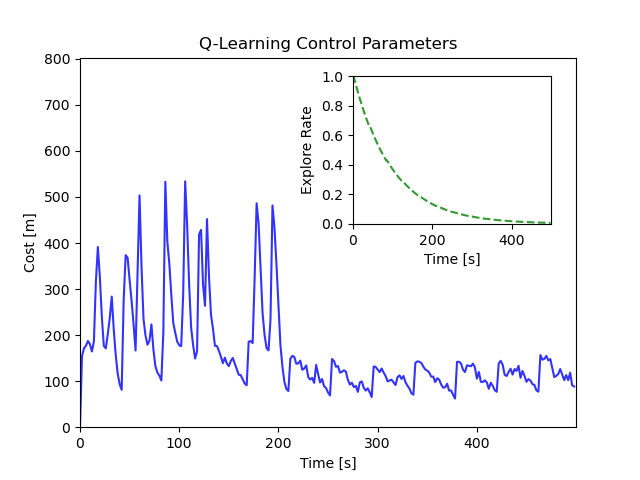
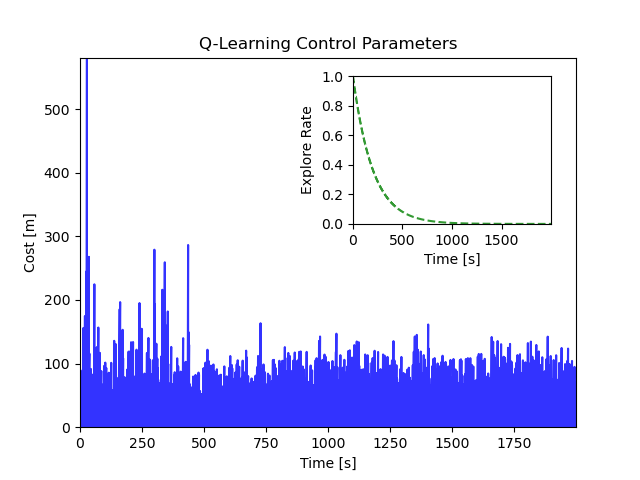
fixed sliding trial time error

diff --git a/main.py b/main.py
@@ -6,11 +6,7 @@
 
 ## Dev notes:
 
-- implement double integrator
-- implement PD control 
-- implement basic learning learning 
-- build a deep Q network eventually
-- see where it goes
+- not ready yet
 
 Created on Sat May 15 19:26:29 2021
 
@@ -36,14 +32,14 @@ from mpl_toolkits.axes_grid.inset_locator import (inset_axes, InsetPosition, mar
 # --------------------
  
 Ti = 0.0        # initial time
-Tf = 500         # final time 
+Tf = 2000         # final time 
 Ts = 0.1        # sample time
-Tz = 0.01      # integration step size
+Tz = 0.005      # integration step size
 
 state   = np.array([1.9, 0.1, 1, 0.2, 0.3, 0.4])   # format: [x, xdot, y, ydot, z, zdot]
 inputs  = np.array([0.21, 0.15, 0.1])              # format: [xddot, yddot, zddot]
 #target  = np.array([0.0,0.0,1.0])                  # format: [xr, yr, zr]
-target  = 9*np.array([random.uniform(-1, 1),random.uniform(-1, 1),random.uniform(-1, 1)]) 
+target  = 10*np.array([random.uniform(-1, 1),random.uniform(-1, 1),random.uniform(-1, 1)]) 
 
 outputs = np.array([state[0],state[2],state[4]])   # format: [x, y, z]
 error   = outputs - target
@@ -71,7 +67,7 @@ nParams     = 2    # number of parameters to tune
 nOptions    = 10   # number of options to selection from (ranges between 0 and nOptions)
 scale       = 1    # scale the value of the options (i.e. scale*[0:nOptions])
 Tl          = 2    # length of trial [s]
-trial_counter = 0  # initialize counter 
+trial_counter = Ts  # initialize counter 
 trial_cost    = 0  # initialze cost 
 explore_rate  = 1  # how often to explore, 0 to 1 (start high, decrease)
 Q = QL.init(nParams,nOptions)
@@ -83,7 +79,9 @@ kd_i = QL.select(Q,1,nOptions,explore_rate)
 kd = scale*kd_i
 explore_rates_all       = np.zeros([nSteps, 1])  # to store explore rates
 explore_rates_all[0,:]  = explore_rate
-
+target_rand0 = 5*random.uniform(-1, 1)
+target_rand1 = 5*random.uniform(-1, 1)
+target_rand2 = 5*random.uniform(-1, 1)
 
 #%% Define the agent dynamics
 # ---------------------------
@@ -122,28 +120,28 @@ while round(t,3) < Tf:
     i += 1
 
     # wander the target 
-    target = 9*np.array([1*np.sin(i*Ts*3),1*np.cos(0.5*i*Ts*3),1*np.sin(i*Ts*2)])
+    target += 0.5*np.array([1*np.sin(i*Ts*target_rand0),1*np.cos(0.5*i*Ts*target_rand1),1*np.sin(i*Ts*target_rand2)])
 
     # still working on this
-    if round(trial_counter,3) < Tl:
+    if round(trial_counter,5) < Tl:
     
         # accumulate the cost
         trial_cost += LA.norm(target-state[0:6:2])
-    
+          
         # increment the counter 
         trial_counter += Ts
         
     else: 
         
-        # normalize the cost
+        # normalize the cost (for computing reward)
         trial_cost = trial_cost/Tl
-        
+      
         #compute the reward
-        reward = np.maximum(1/trial_cost,0.00001)
+        reward = 1/np.maximum(trial_cost,0.00001)
         
         #update the Q table
-        Q = QL.update(Q,0,kp_i,0,reward)
-        Q = QL.update(Q,1,kd_i,1,reward)
+        Q = QL.update(Q,0,kp_i,1,reward)
+        Q = QL.update(Q,1,kd_i,0,reward)
         
         # select new parameter from Q table 
         kp_i = QL.select(Q,0,nOptions,explore_rate)
@@ -153,13 +151,17 @@ while round(t,3) < Tf:
         #print(kp,kd,1/trial_cost)
         
         # reset
-        trial_counter = 0
+        trial_counter = Ts
+        trial_cost = 0
         
         # select new target (randomly)
-        target  = 10*np.array([random.uniform(-1, 1),random.uniform(-1, 1),random.uniform(-1, 1)]) 
+        target = 10*np.array([random.uniform(-1, 1),random.uniform(-1, 1),random.uniform(-1, 1)]) 
+        target_rand0 = 5*random.uniform(-1, 1)
+        target_rand1 = 5*random.uniform(-1, 1)
+        target_rand2 = 5*random.uniform(-1, 1)
         
         # reduce the explore rate
-        explore_rate = 0.99**t
+        explore_rate = 0.995**t
         #print(explore_rate)
         
 
@@ -175,6 +177,10 @@ while round(t,3) < Tf:
 
 # %% Animate
 # ---------- 
+
+for k in range(0,nParams):
+    print('Best parameter ', k, ' is: ', np.argmax(Q[k,:]),' with ', np.max(Q[k,:]))
+
 
 #%% trajectory
 
@@ -264,7 +270,7 @@ ani = animation.FuncAnimation(fig, update, np.arange(1, len(states_all)),interva
 #slow
 #ani2 = animation.FuncAnimation(fig, update, np.linspace(1, len(states_all), num=500, dtype=int),interval=15, blit=False)
 
-ani.save('animation.gif', writer=writer, progress_callback = lambda i, n: print(f'Saving frame {i} of {n}'))
+#ani.save('animation.gif', writer=writer, progress_callback = lambda i, n: print(f'Saving frame {i} of {n}'))
 #ani.save('animation.gif', writer=writer)
 
 
@@ -275,7 +281,8 @@ ani.save('animation.gif', writer=writer, progress_callback = lambda i, n: print(
 # plot costs
 fig2, ax2 = plt.subplots()
 plt.title('Q-Learning Control Parameters')
-ax2.plot(t_all[1::int(Tl/Ts)],costs_all[1::int(Tl/Ts),0],'-', c='b', mew=2, alpha=0.8,label='Cost')
+#ax2.plot(t_all[1::int(Tl/Ts)],costs_all[1::int(Tl/Ts),0],'-', c='b', mew=2, alpha=0.8,label='Cost')
+ax2.plot(t_all[1::],costs_all[1::,0],'-', c='b', mew=2, alpha=0.8,label='Cost')
 ax2.set_xlabel('Time [s]')
 ax2.set_ylabel('Cost [m]')
 #ax2.legend(loc=0)
@@ -290,7 +297,8 @@ ax3.set_axes_locator(ip)
 # cool, make lines to point (save this for later)
 #mark_inset(ax2, ax3, loc1=2, loc2=4, fc="none", ec='0.5')
 # data
-ax3.plot(t_all[1::int(Tl/Ts)],explore_rates_all[1::int(Tl/Ts),0],'--', c='g', mew=2, alpha=0.8,label='Explore Rate')
+#ax3.plot(t_all[1::int(Tl/Ts)],explore_rates_all[1::int(Tl/Ts),0],'--', c='g', mew=2, alpha=0.8,label='Explore Rate')
+ax3.plot(t_all[1::],explore_rates_all[1::,0],'--', c='g', mew=2, alpha=0.8,label='Explore Rate')
 ax3.set_xlabel('Time [s]')
 ax3.set_ylabel('Explore Rate')
 ax3.set_xlim(0,max(t_all))

diff --git a/qLearnLib.py b/qLearnLib.py
@@ -15,8 +15,8 @@ import random
 #nState = 2          # number of states
 #nAction = 2         # number of actions
 #explore_rate = 0.8  # how often to explore, 0 to 1
-learn_rate = 0.7    # how much to accept new observations, alpha/lambda, 0.9
-discount = 0.9      # balance immediate/future rewards, (gamma): 0.8 to 0.99
+learn_rate = 0.5    # how much to accept new observations, alpha/lambda, 0.9
+discount = 0.99      # balance immediate/future rewards, (gamma): 0.8 to 0.99
 
 
 # Initialize Q table
